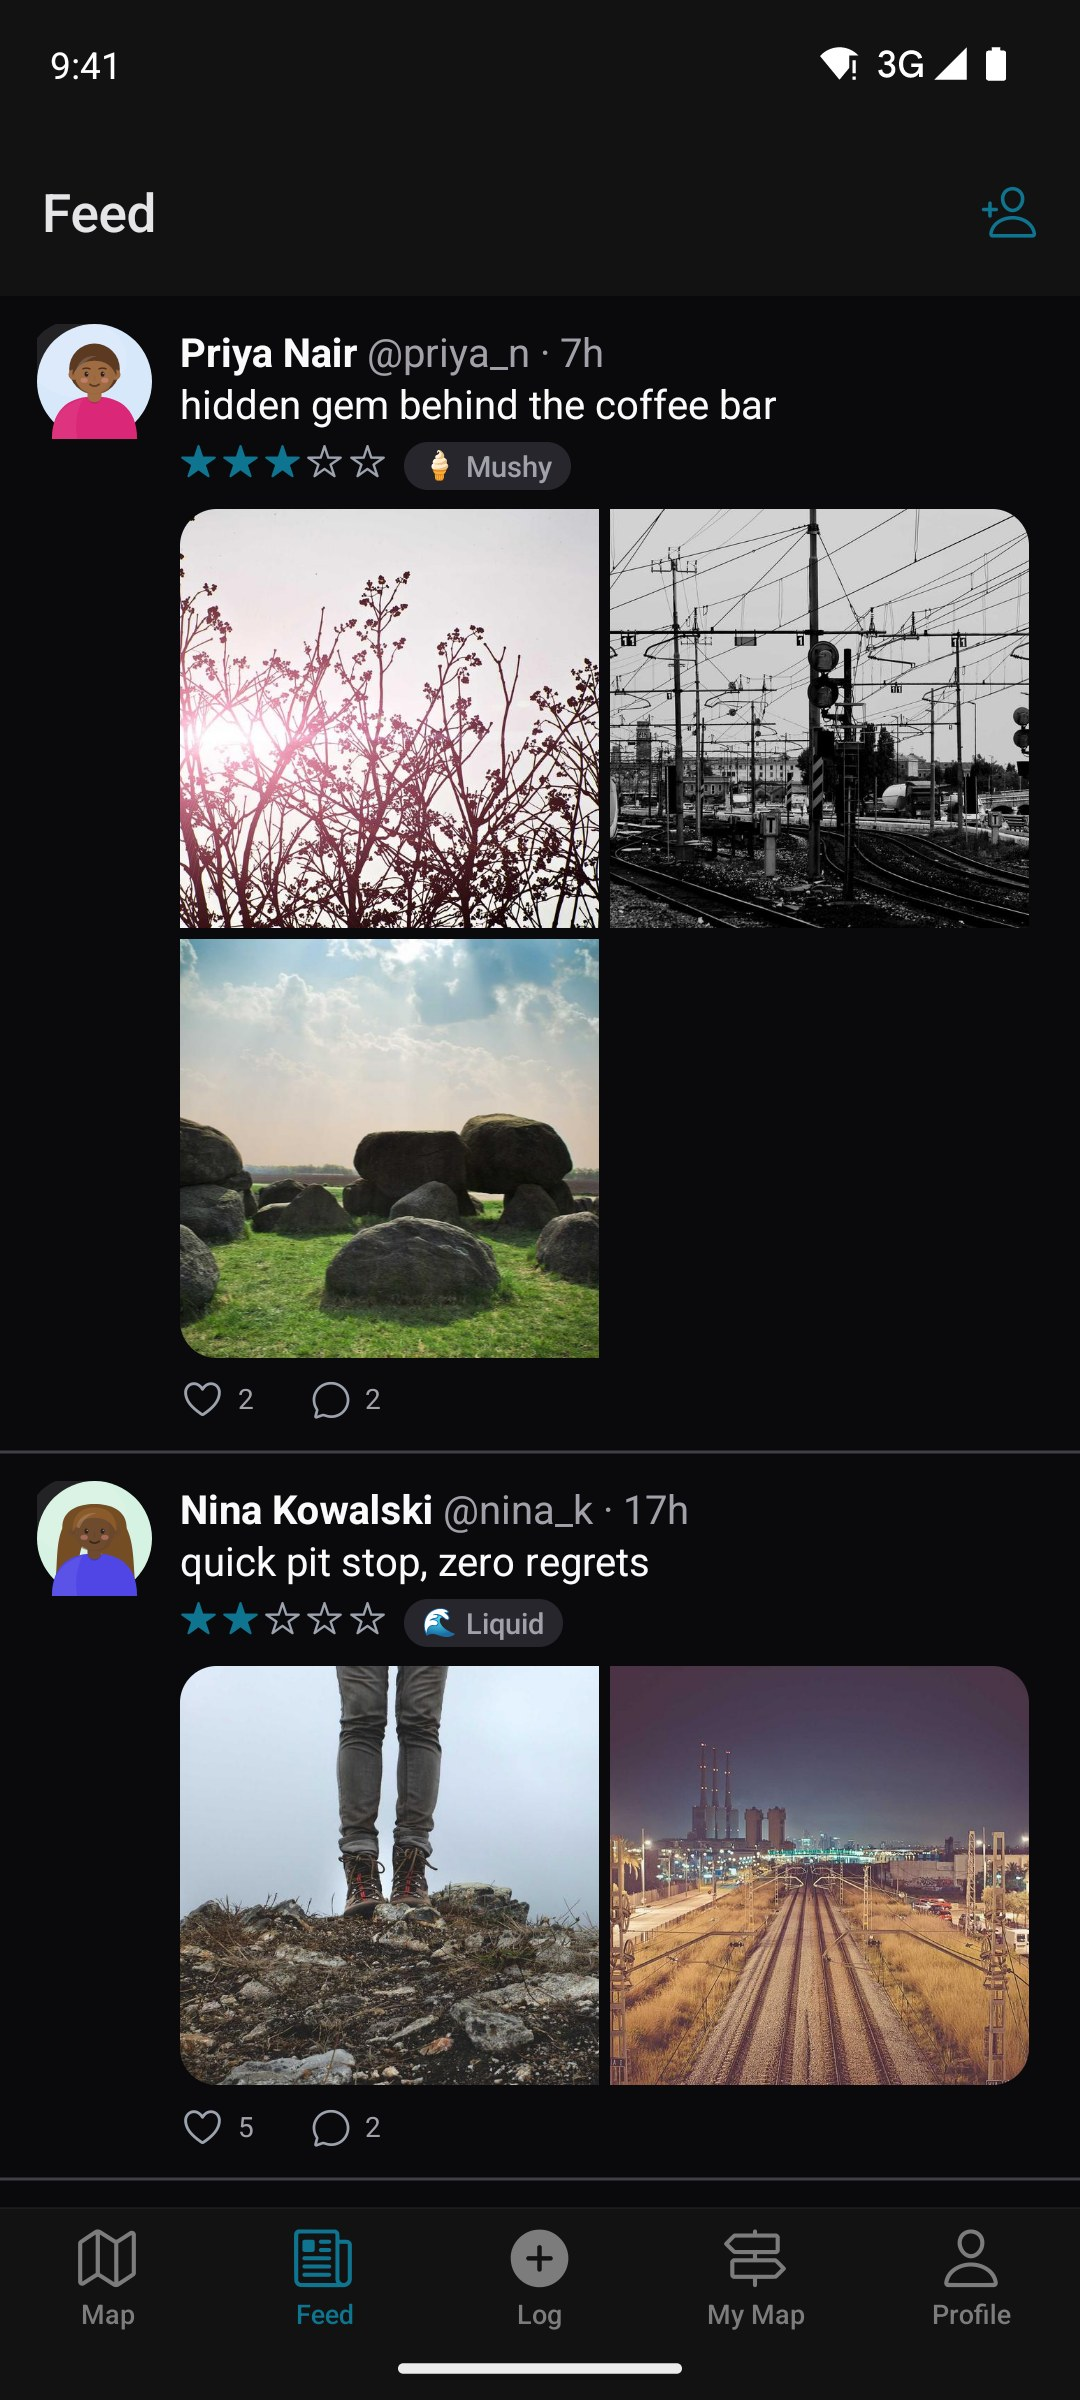
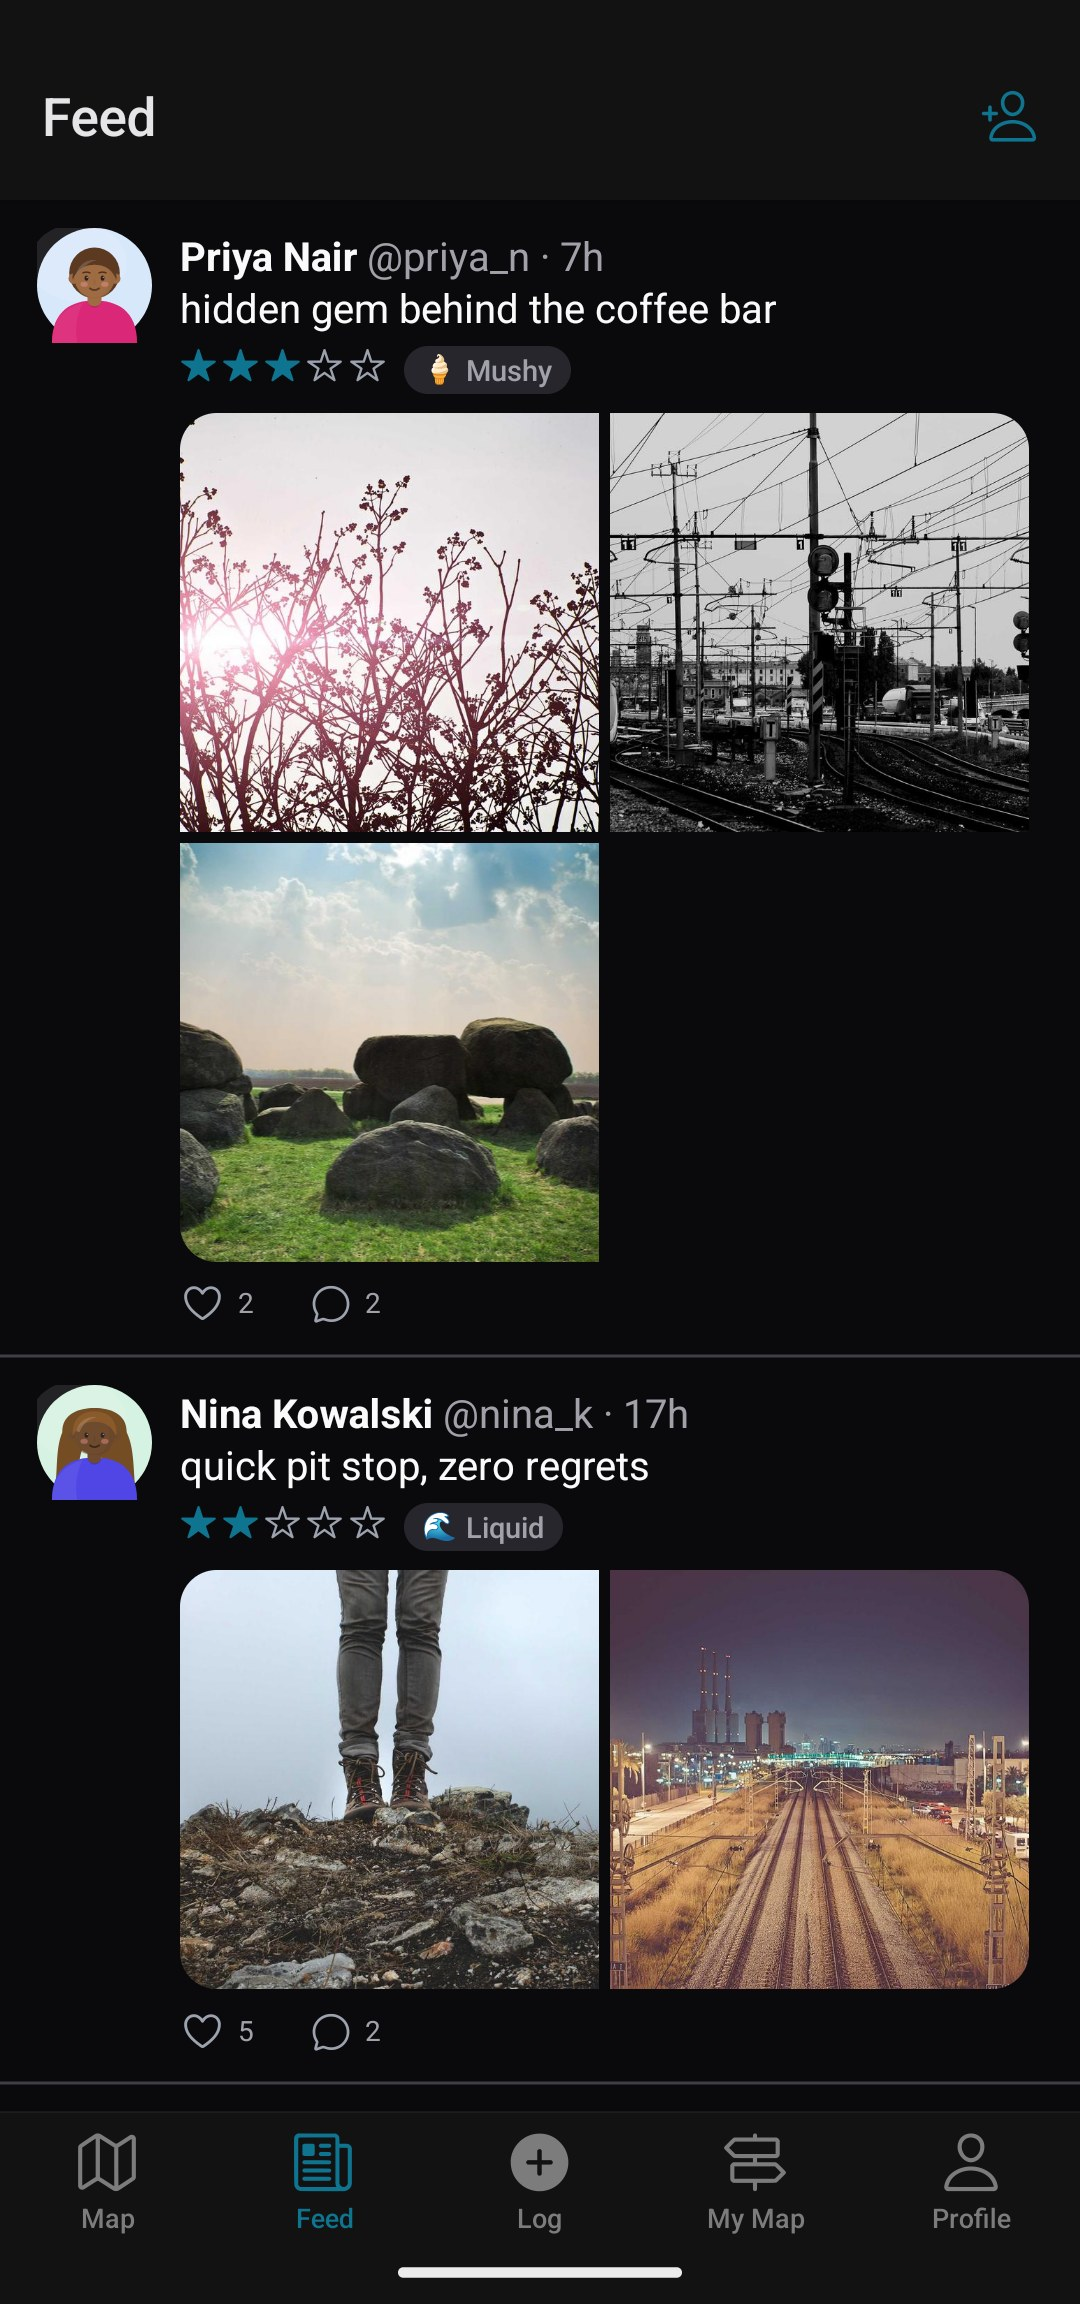
Landing frames: clean notch strip, no clipped status bar
Crop the OS status bars and give each phone a dark top strip with a small
centered notch (space on both sides), so the app content (search bar / feed
header) sits below the corner curve, fully visible and uncut.

diff --git a/marketing/info.template.html b/marketing/info.template.html
@@ -69,9 +69,9 @@
   .nav-cta { padding: 9px 16px; font-size: 14px; }
 
   .cluster { display: flex; align-items: flex-end; justify-content: center; margin: 56px auto 0; perspective: 1600px; }
-  .phone { position: relative; width: 236px; flex: none; border-radius: 38px; background: linear-gradient(#1b2228, #0f161b); padding: 9px; box-shadow: 0 40px 80px -30px rgba(0,0,0,0.85), 0 0 0 1px rgba(255,255,255,0.06) inset; }
-  .phone::before { content: ""; position: absolute; top: 15px; left: 50%; transform: translateX(-50%); width: 78px; height: 17px; background: #0b1015; border-radius: 11px; z-index: 3; }
-  .phone img { display: block; width: 100%; border-radius: 30px; }
+  .phone { position: relative; width: 236px; flex: none; border-radius: 30px; background: linear-gradient(#1b2228, #0f161b); padding: 22px 8px 8px; overflow: hidden; box-shadow: 0 40px 80px -30px rgba(0,0,0,0.85), 0 0 0 1px rgba(255,255,255,0.06) inset; }
+  .phone::before { content: ""; position: absolute; top: 6px; left: 50%; transform: translateX(-50%); width: 58px; height: 11px; background: #0b1015; border-radius: 7px; z-index: 3; }
+  .phone img { display: block; width: 100%; border-radius: 12px; }
   .phone.p1 { transform: rotate(-6deg) translateX(38px) translateY(20px); z-index: 1; }
   .phone.p2 { transform: rotate(5deg) translateX(-38px); z-index: 2; box-shadow: 0 50px 90px -28px rgba(0,0,0,0.9), 0 0 0 1px rgba(255,255,255,0.07) inset, 0 0 60px -20px rgba(167,139,250,0.5); }
 
